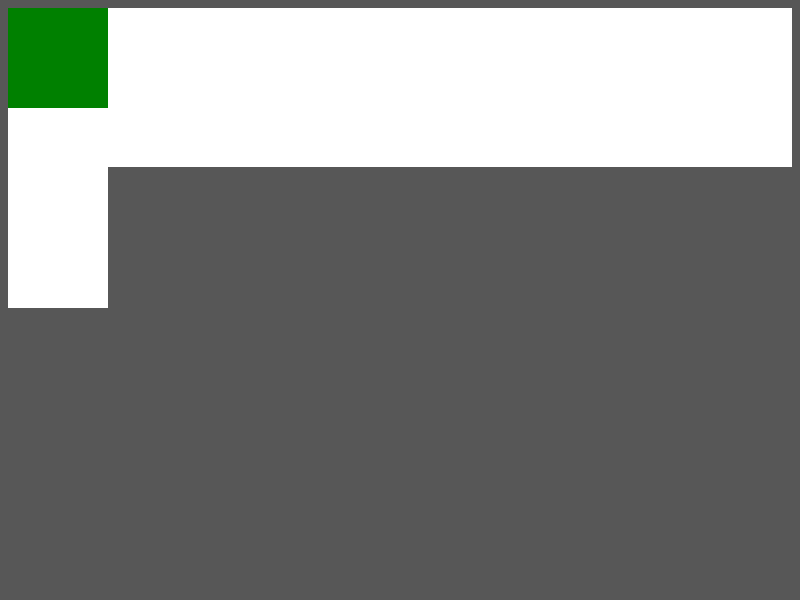
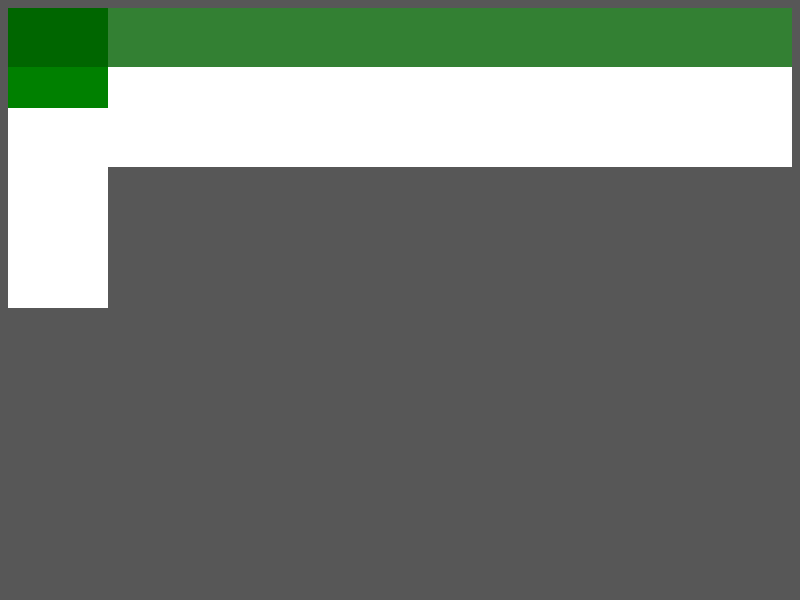
REGRESSION(r96257): fast/repaint/selection-clear.html fail https://bugs.webkit.org/show_bug.cgi?id=69060
Reviewed by Enrica Casucci.

After r96257, we no longer clear selection upon node removal so the selection should
still be rendered after the node removal in this test.

Changed the color of selection from red to green to indicate the success.

* fast/repaint/selection-clear.html:
* platform/mac/fast/repaint/selection-clear-expected.png:

Identifier: 85713@main
git-svn-id: https://svn.webkit.org/repository/webkit/trunk@96963 268f45cc-cd09-0410-ab3c-d52691b4dbfc

Changed region(s): [[0.0, 0.0, 1.0, 0.12]]

diff --git a/LayoutTests/fast/repaint/selection-clear.html b/LayoutTests/fast/repaint/selection-clear.html
@@ -10,7 +10,7 @@
     </script>
     <style>
         #firstLine { background-color: green; }
-        #firstLine::selection { background-color: red; }
+        #firstLine::selection { background-color: green; }
     </style>
 </head>
 <body onload="runRepaintTest();">
@@ -25,3 +25,5 @@
         selection.setBaseAndExtent(firstLine, 0, root.lastChild, 0);
     </script>
 </body>
+
+
